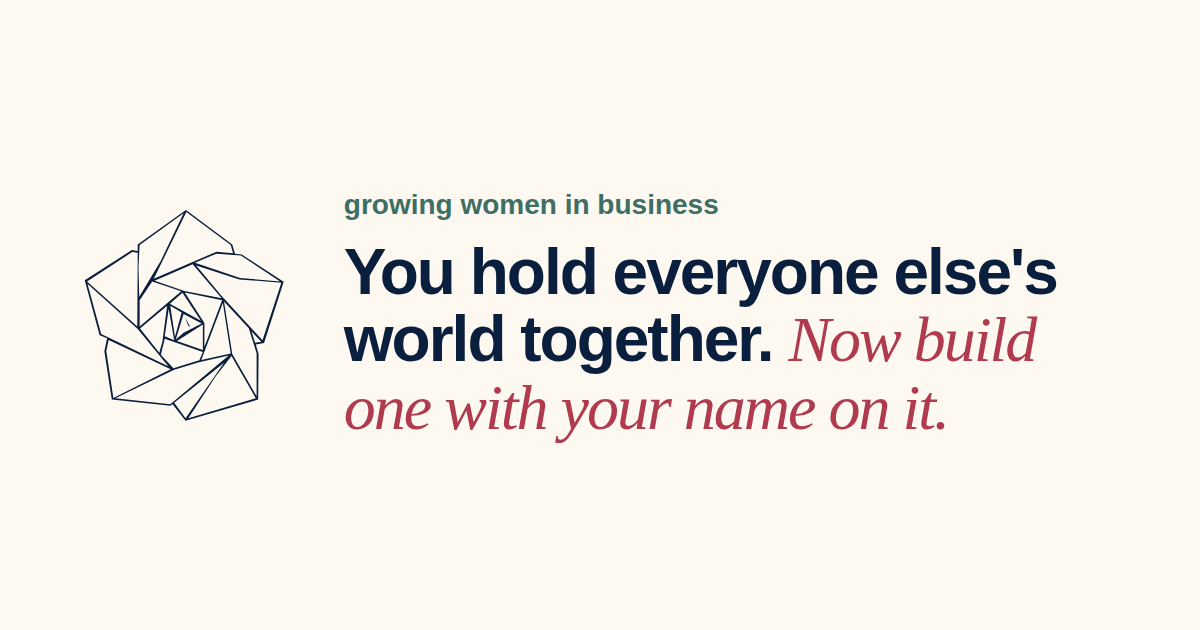
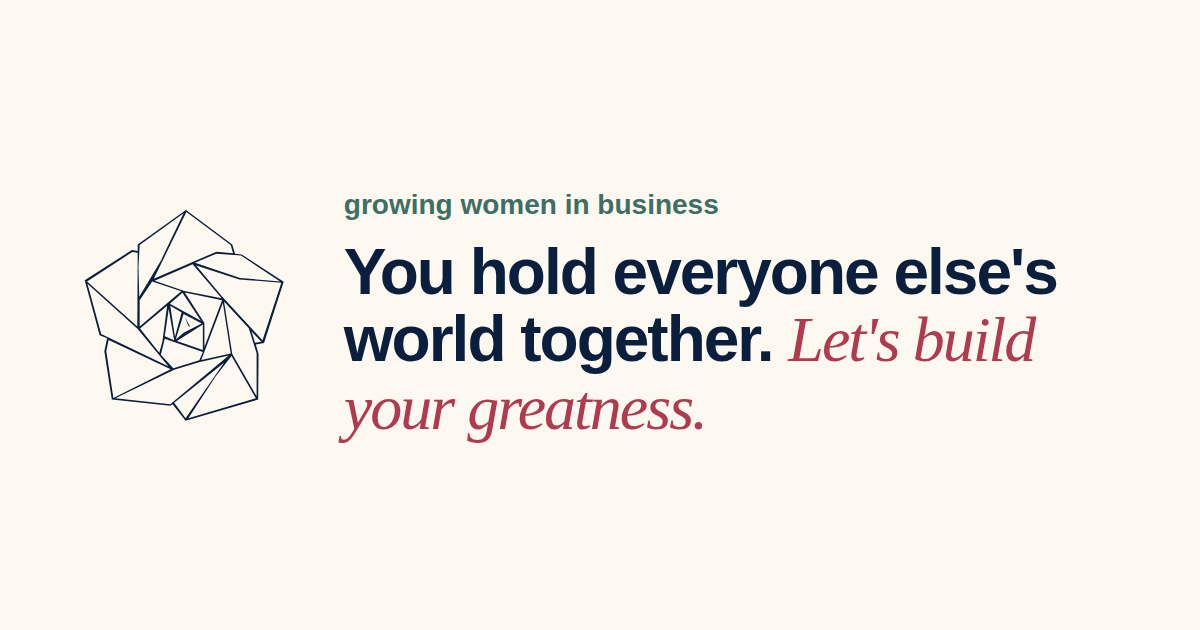
Headline: You hold everyone else's world together. Let's build your greatness.
Claude-Session: https://claude.ai/code/session_01ESvkyrDiWWBWGGuWgQzvng

Changed region(s): [[0.2775, 0.6032, 0.8017, 0.6937], [0.6475, 0.5127, 0.8633, 0.573]]

diff --git a/public/index.html b/public/index.html
@@ -70,7 +70,7 @@
       <div class="hero-grid">
         <div class="hero-text">
           <p class="hero-line">From capable but invisible to a Future Maker, building what&rsquo;s yours.</p>
-          <h1 id="hero-title">You hold everyone else's world together. <em>Now build one with your name on it.</em></h1>
+          <h1 id="hero-title">You hold everyone else's world together. <em>Let's build your greatness.</em></h1>
           <p class="hero-lede">I'm Alana. I'll show you, step by step and without the jargon, how to use AI to build your website, your offer and your posts. Start with the free two-minute quiz, join the Circle for &pound;10 a month, or book a call and we'll work out what you need.</p>
           <div class="hero-cta">
             <a href="/quiz.html?utm_source=website&amp;utm_medium=hero&amp;utm_campaign=future-maker-quiz" class="btn">take the quiz</a>
